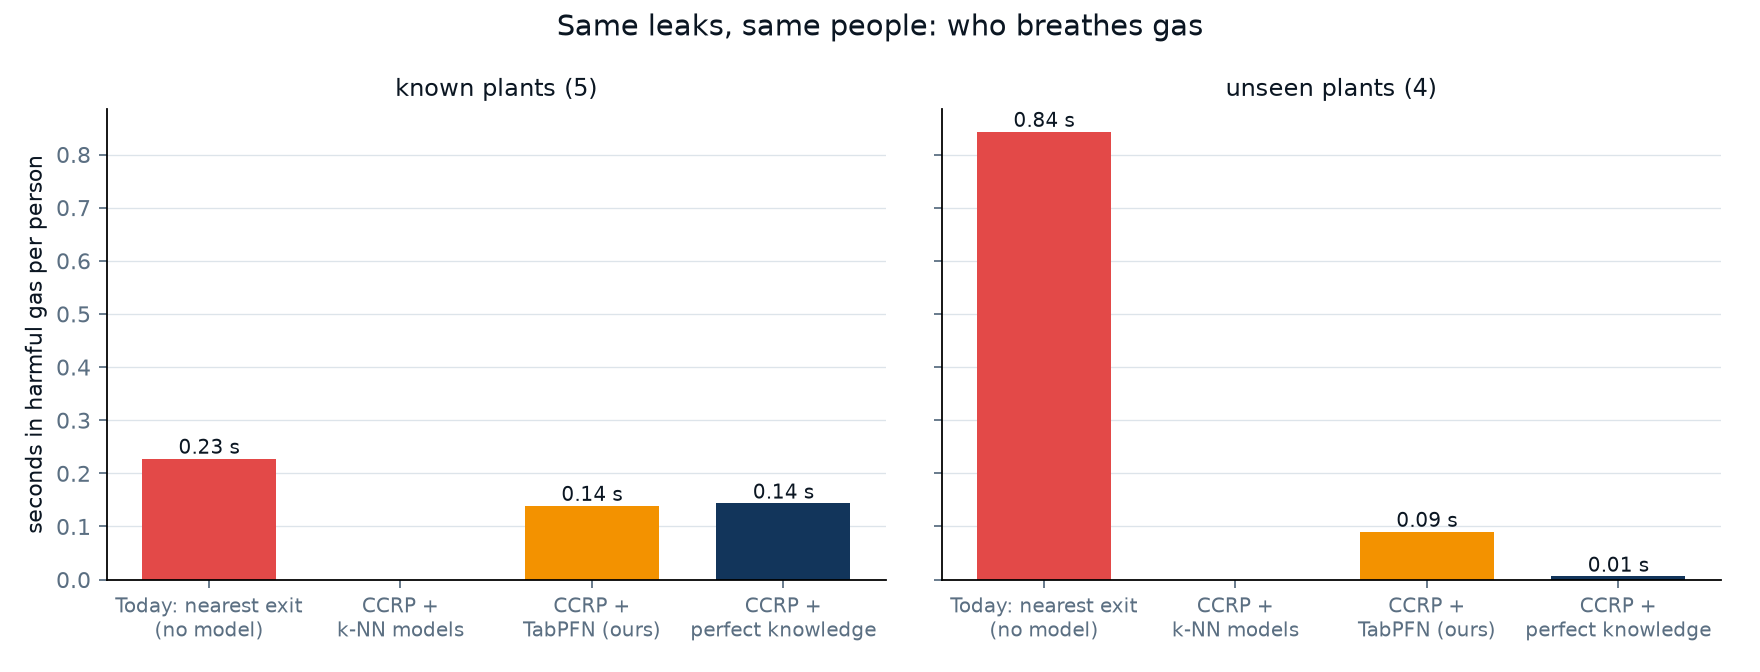
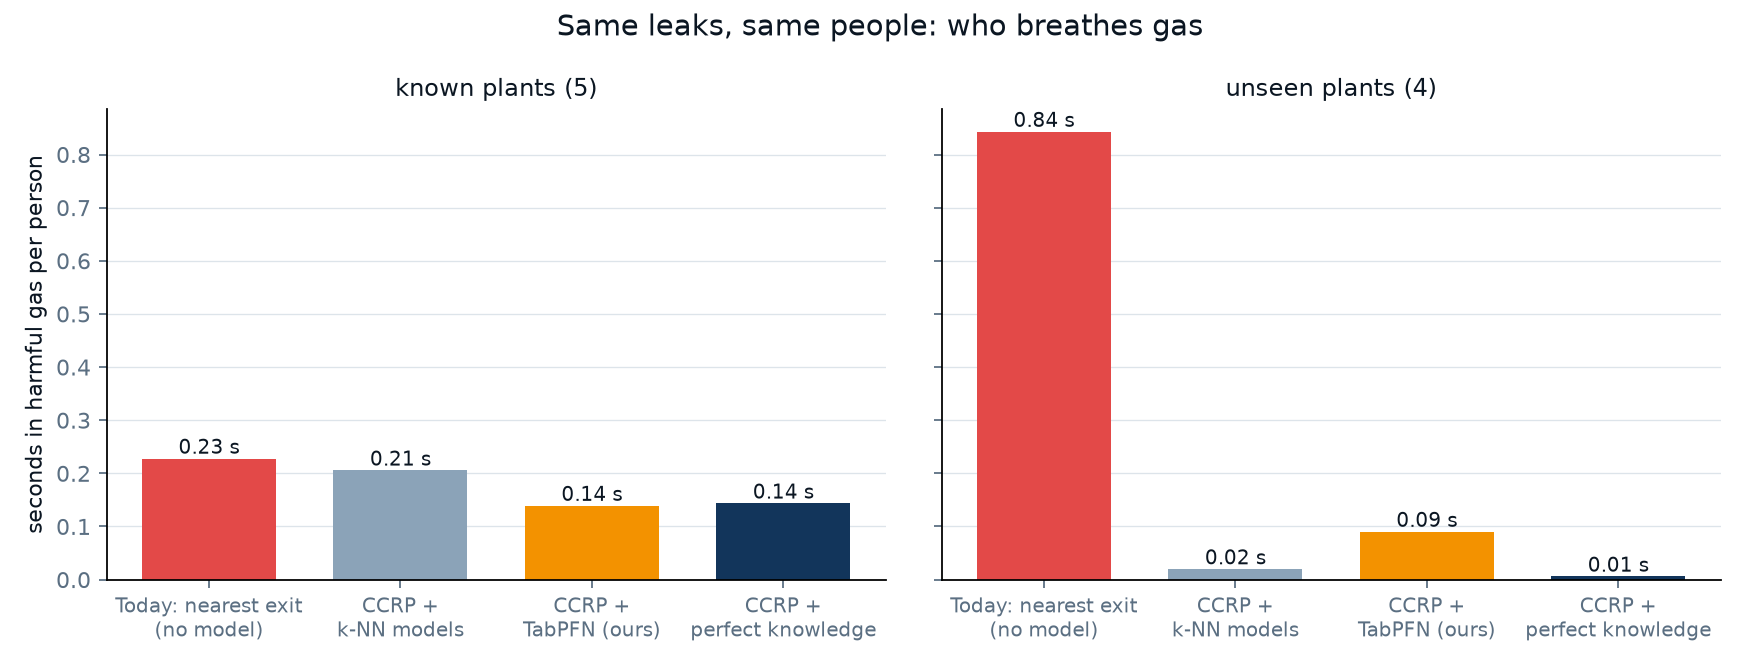
k-NN comparison in: figures, story, README (TabPFN 3.5x closer to the leak; k-NN hazard map broader); false-alarm panel

Changed region(s): [[0.1875, 0.6562, 0.2812, 0.875], [0.6562, 0.8125, 0.75, 0.875]]

diff --git a/src/tabpfn_spatial/world/web/index.html b/src/tabpfn_spatial/world/web/index.html
@@ -130,8 +130,13 @@
 
   <section id="tabpfn" class="chapter" data-title="6 · Why TabPFN">
     <p class="kicker">6 · Why TabPFN</p>
-    <h2>Accurate on real gas, no training, and the physics behind it is cheap.</h2>
+    <h2>Finds the leak 3.5× closer, no training, and the physics behind it is cheap.</h2>
+    <p>Same plants, same leaks, a classic k-NN in TabPFN's place: TabPFN puts the leak at 0.63 m
+      (k-NN 2.20 m) and its height at 0.63 m (k-NN 1.63 m). Its hazard map raises no false alarms
+      but covers less of the harmful air than k-NN's broader map (26 % vs 76 %): widening it is
+      our next step.</p>
     <div class="meters">
+      <div class="meter"><b data-count="3.5" data-dec="1" data-unit="×">0</b><span>closer to the leak than k-NN in the 3D factory</span></div>
       <div class="meter"><b data-count="41" data-unit=" %">0</b><span>smaller leak error than k-NN on real data (0.38 vs 0.64 m)</span></div>
       <div class="meter"><b data-count="0" data-unit=" s">0</b><span>training: it reads the table in context</span></div>
       <div class="meter"><b data-count="8" data-unit=" min">0</b><span>to simulate a new plant (CFD: 5.2 h)</span></div>

diff --git a/src/tabpfn_spatial/evac/final_compare.py b/src/tabpfn_spatial/evac/final_compare.py
@@ -114,8 +114,9 @@ def accuracy_factory(cloud: list[dict], knn: list[dict], out: Path) -> Path:
                             "pending: evac-final --backend baseline")  # fmt: skip
     measures = (("loc_err_median_m", "leak position error (m)", "lower is better"),
                 ("height_err_m", "leak height error (m)", "lower is better"),
-                ("hz_recall", "harmful cells caught (recall)", "higher is better"))  # fmt: skip
-    fig, axes = plt.subplots(1, 3, figsize=(12, 3.8))
+                ("hz_recall", "harmful cells caught (recall)", "higher is better"),
+                ("hz_false", "safe cells flagged (false alarms)", "lower is better"))  # fmt: skip
+    fig, axes = plt.subplots(1, 4, figsize=(15, 3.8))
     for ax, (key, title, better) in zip(axes, measures, strict=True):
         for j, (rows, col) in enumerate(((b, KNN), (a, TABPFN))):
             v = [rows[p].get(key) for p in plants]
@@ -125,7 +126,8 @@ def accuracy_factory(cloud: list[dict], knn: list[dict], out: Path) -> Path:
             if v:
                 m = float(np.median(v))
                 ax.hlines(m, j - 0.3, j + 0.3, color=INK, lw=2)
-                ax.text(j + 0.33, m, f"{m:.2f}", va="center", fontsize=9, color=INK)
+                ax.text(j + 0.33, m, f"{m:.3f}" if m < 0.1 else f"{m:.2f}", va="center", fontsize=9,
+                        color=INK)  # fmt: skip
         ax.set_xticks([0, 1], ["k-NN", "TabPFN"])
         ax.set_xlim(-0.6, 1.8)
         ax.set_title(f"{title}\n{better}", color=INK, fontsize=10)

diff --git a/docs/results/final-table.md b/docs/results/final-table.md
@@ -28,7 +28,7 @@ unseen: locator 0.6 m (first 0.1 m), height 0.58 m, hazard Brier 0.053, recall 0
 
 ## k-NN comparison (same plants and leaks, `--backend baseline`)
 
-_pending_
+see the README "Results" section and docs/figures/final/2-accuracy-factory.png
 
 ## Hard case (`--stress`: low leaks near people, 2x rate, updates every 5 s)
 
@@ -43,3 +43,25 @@ leak error 0.6 m (0.2 m at the alarm), height 0.55 m, alarm at 5 s.
 **All 15 plants** (5 known + 10 unseen, one leak each, plant means weighted equally):
 0.50 s -> 0.09 s per person (-83 %); unseen only 0.63 s -> 0.06 s (-90 %); exposed 5.0 % ->
 1.8 % (-64 %).
+
+```
+split   models   policy    s in gas  % exposed  95% out s
+known   tabpfn   nearest       0.23        3.7         41
+known   tabpfn   risk          0.19        3.2         55
+known   tabpfn   ccrp          0.21        3.4         49
+known   tabpfn   once          0.21        3.4         48
+known   perfect  nearest       0.23        3.7         41
+known   perfect  risk          0.15        2.4         49
+known   perfect  ccrp          0.14        2.3         42
+known   perfect  once          0.14        2.3         40
+unseen  tabpfn   nearest       0.84        6.2         43
+unseen  tabpfn   risk          0.02        0.4         53
+unseen  tabpfn   ccrp          0.02        0.4         46
+unseen  tabpfn   once          0.02        0.4         46
+unseen  perfect  nearest       0.84        6.2         43
+unseen  perfect  risk          0.01        0.1         46
+unseen  perfect  ccrp          0.01        0.1         45
+unseen  perfect  once          0.01        0.1         42
+known: locator 1.4 m (first 1.2 m), height 1.35 m, hazard Brier 0.072, recall 0.32 (at P>=0.2: 0.76), false alarms 0.012, alarm 5 s
+unseen: locator 2.3 m (first 1.1 m), height 2.05 m, hazard Brier 0.036, recall 0.83 (at P>=0.2: 0.98), false alarms 0.026, alarm 5 s
+```

diff --git a/README.md b/README.md
@@ -30,6 +30,12 @@ With Rayan's 6 further unseen plants (15 plants, 10 never seen, one leak each): 
 per person 0.50 s → **0.09 s (−83 %)**, on unseen plants 0.63 s → **0.06 s (−90 %)**, people
 exposed 5.0 % → **1.8 % (−64 %)**, as good as perfect knowledge of the gas.
 
+Against a classic k-NN in TabPFN's place (same 9 plants and leaks, `--backend baseline`):
+TabPFN locates the leak 3.5x closer (median 0.63 m vs 2.20 m; height 0.63 m vs 1.63 m). The
+k-NN hazard map is broader (catches 76 % of harmful cells vs 26 %, with more false alarms),
+which helps routing on unseen plants (0.02 s vs 0.09 s in gas per person; known plants: TabPFN
+0.14 s vs k-NN 0.21 s). Widening TabPFN's hazard map is the next step.
+
 On real gas measurements TabPFN locates the leak better than a classic k-NN on the same rows
 (Red:Vapor 0.38 m vs 0.64 m; SRGDM 0.83 vs 1.50 cells) and ranks hot zones at least as well
 (AUC 0.88 / 0.62 / 0.98 vs 0.88 / 0.60 / 0.94 on Red:Vapor, Örebro, UCI).
